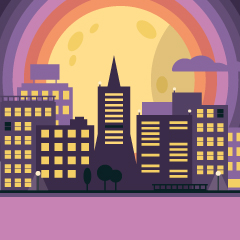
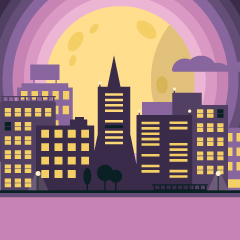
Adding dusk image

diff --git a/cityscape-weather.py b/cityscape-weather.py
@@ -1,3 +1,5 @@
+#!/usr/bin/env python3
+
 import sys
 import time
 
@@ -25,9 +27,9 @@ def blend_colours(a, b, alpha):
 
 disp = ST7789.ST7789(
     port=0,
-    cs=ST7789.BG_SPI_CS_FRONT,  # BG_SPI_CSB_BACK or BG_SPI_CS_FRONT
+    cs=ST7789.BG_SPI_CS_FRONT,
     dc=9,
-    backlight=19,               # 18 for back BG slot, 19 for front BG slot.
+    backlight=19,
     spi_speed_hz=80 * 1000 * 1000
 )
 
@@ -35,9 +37,11 @@ WIDTH = disp.width
 HEIGHT = disp.height
 
 day_image = Image.open("cityscape-day.jpg").resize((WIDTH, HEIGHT))
+dusk_image = Image.open("cityscape-dusk.jpg").resize((WIDTH, HEIGHT))
 night_image = Image.open("cityscape-night.jpg").resize((WIDTH, HEIGHT))
 
 day_colour = (15, 58, 68)
+dusk_colour = (36, 10, 17)
 night_colour = (58, 42, 73)
 
 disp.begin()
@@ -47,19 +51,27 @@ bus = SMBus(1)
 bme280 = BME280(i2c_dev=bus)
 ltr559 = LTR559()
 
-lux_vals = [100] * 10
+sensitivity = 75
+lux_vals = [sensitivity] * 5
 
 while True:
     lux = lux = ltr559.get_lux()
     lux_vals = lux_vals[1:] + [lux]
     avg_lux = sum(lux_vals) / len(lux_vals)
-    alpha = min((avg_lux / 100), 1.0)
-    colour = blend_colours(night_colour, day_colour, alpha)
-    image = Image.blend(night_image, day_image, alpha)
+    alpha = min((avg_lux / sensitivity), 1.0)
+
+    if alpha > 0.5:
+        alpha = (alpha * 2) - 1
+        colour = blend_colours(dusk_colour, day_colour, alpha)
+        image = Image.blend(dusk_image, day_image, alpha)
+    else:
+        alpha = alpha * 2
+        colour = blend_colours(night_colour, dusk_colour, alpha)
+        image = Image.blend(night_image, dusk_image, alpha)
+
     draw = ImageDraw.Draw(image)
 
     font = ImageFont.truetype("fonts/Nunito-Bold.ttf", 32)
-
     temperature = bme280.get_temperature()
     message = f"Temp: {temperature:.2f}°C"
     draw.text((5, 196), message, font=font, fill=colour)
